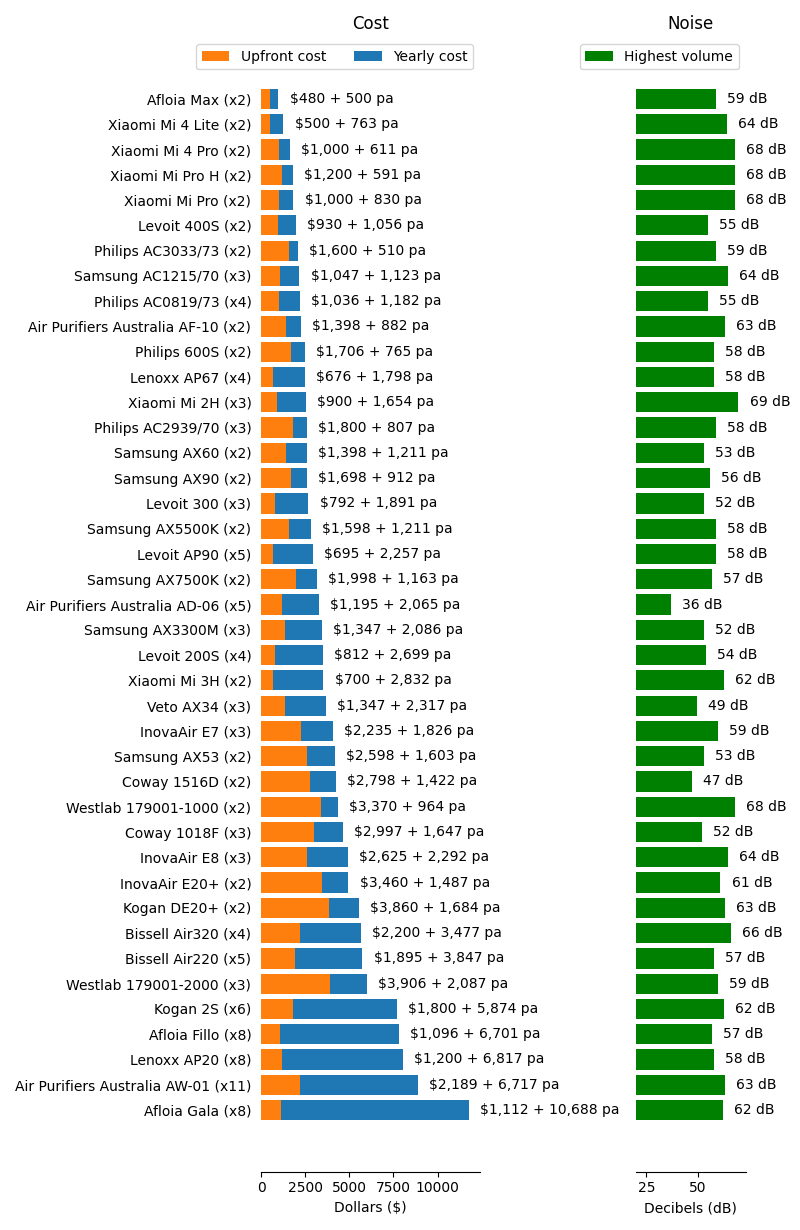
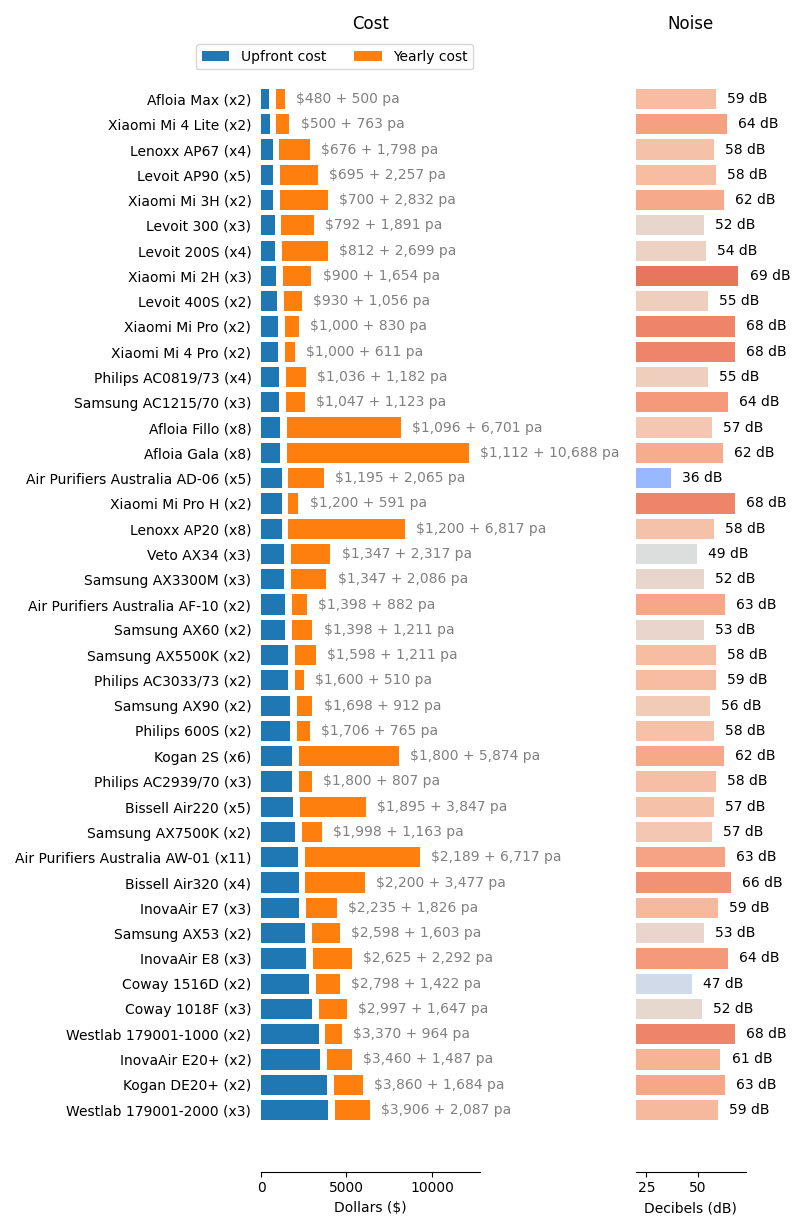
Quick push

diff --git a/aircleaning/produce.py b/aircleaning/produce.py
@@ -4,13 +4,16 @@
 
 
 import os
+import operator
 
 import matplotlib.pyplot as plt
+from matplotlib.colors import Normalize as norm
 import numpy as np
 
-import window
+# import window
 
 from . import load, analyse
+
 
 repodir = os.path.dirname(os.path.dirname(__file__))
 productsdir = os.path.join(repodir, 'products')
@@ -19,7 +22,7 @@ productsdir = os.path.join(repodir, 'products')
 def cost_analysis(volume, quality, path=productsdir, name='default'):
 
     data = analyse.cost_analysis(None, volume, quality)
-    data = data.sort_values('nominal')
+    data = data.sort_values('upfront')
     # data = data.loc[data['nunits'] < 6]
     data = data.drop('Dyson', level='manufacturer')
     data['fullname'] = tuple(map(
@@ -28,16 +31,6 @@ def cost_analysis(volume, quality, path=productsdir, name='default'):
             (f' (x{n})' if n>1 else '' for n in data['nunits']),
             )
         ))
-    # dollarlabels = tuple(map(' + '.join, zip(
-    #     data['upfront'].astype(int).apply('${:,}'.format),
-    #     data['running'].astype(int).apply('${:,} pa'.format),
-    #     )))
-    # dollarlabels = tuple(data['upfront'].astype(int).apply('${:,}'.format))
-    # import itertools
-    # dollarlabels = tuple(map(' + '.join, zip(
-    #     data['upfront'].astype(int).apply('${:,}'.format),
-    #     itertools.repeat(''),
-    #     )))
     dollarlabels = tuple(map(' + '.join, zip(
         data['upfront'].astype(int).apply('${:,}'.format),
         data['running'].astype(int).apply('{:,} pa'.format),
@@ -45,20 +38,22 @@ def cost_analysis(volume, quality, path=productsdir, name='default'):
 
     plt.rcdefaults()
     fig, (ax1, ax2) = plt.subplots(ncols=2, gridspec_kw={'width_ratios': [2, 1]})
+
     fig.set_size_inches(8, 0.3 * len(data))
     fig.set_tight_layout(True)
 
     y_pos = np.arange(len(data))
 
-    outerbars = ax1.barh(y_pos, data['nominal'])
+    gap = data['nominal'].max()
     innerbars = ax1.barh(y_pos, data['upfront'])
+    outerbars = ax1.barh(y_pos, data['running'], left=data['upfront']+gap/30)
     ax1.set_yticks(y_pos, labels=data['fullname'])
     ax1.invert_yaxis()  # labels read top-to-bottom
     ax1.set_xlabel('Dollars ($)')
     ax1.set_title('Cost')
     ax1.bar_label(
         outerbars, dollarlabels,
-        label_type='edge', padding=8, fmt='$%d',
+        label_type='edge', padding=8, fmt='$%d', color='grey'
         )
     ax1.spines['top'].set_visible(False)
     ax1.spines['right'].set_visible(False)
@@ -69,7 +64,8 @@ def cost_analysis(volume, quality, path=productsdir, name='default'):
         ncol=2,
         )
 
-    bars = ax2.barh(y_pos, data['noise'], color='green')
+    noisecolours = tuple(map(plt.get_cmap('coolwarm'), norm(20, 80)(data['noise'])))
+    bars = ax2.barh(y_pos, data['noise'], color=noisecolours)
     ax2.set_yticks(y_pos, labels=[])
     ax2.invert_yaxis()  # labels read top-to-bottom
     ax2.set_xlabel('Decibels (dB)')
@@ -80,10 +76,10 @@ def cost_analysis(volume, quality, path=productsdir, name='default'):
     ax2.spines['right'].set_visible(False)
     ax2.spines['left'].set_visible(False)
     ax2.tick_params(axis='y', which='both', left=False)
-    ax2.legend(
-        [bars,], ['Highest volume'],
-        ncol=2,
-        )
+    # ax2.legend(
+    #     [bars,], ['Highest volume'],
+    #     ncol=2,
+    #     )
 
     # title = f"Air cleaner choices: a {volume}-sized room with {quality} air quality"
     # fig.suptitle(title, fontproperties=dict(weight='heavy'))
